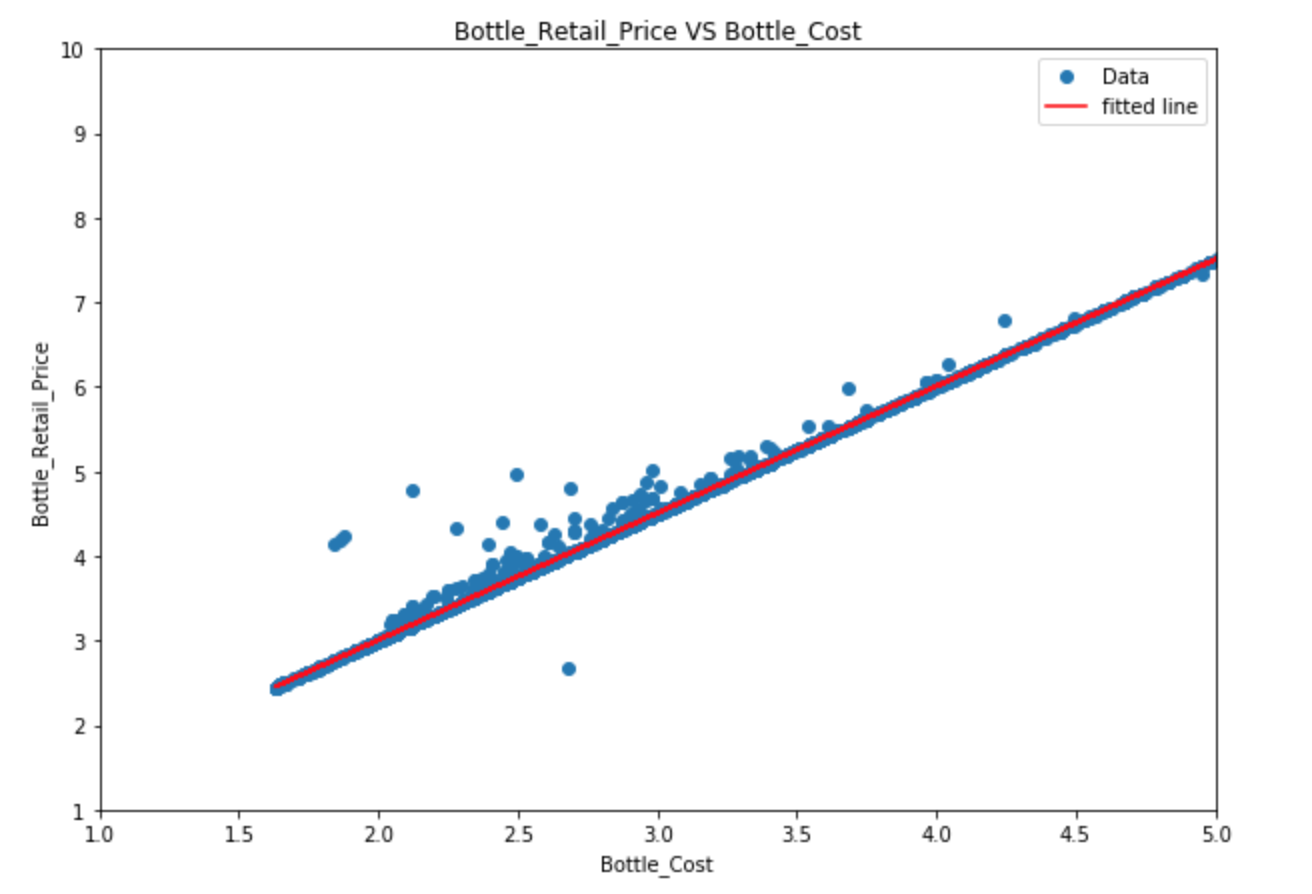
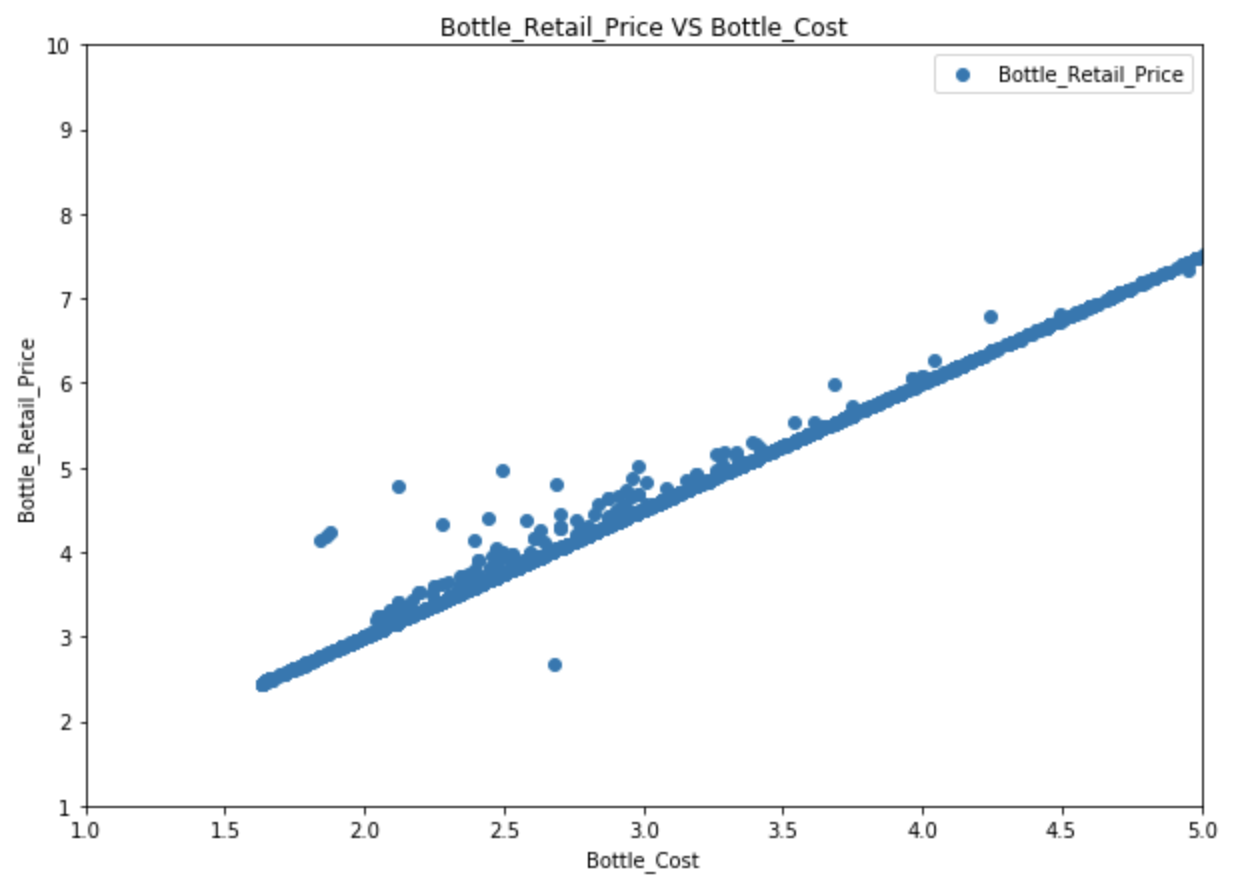
Remove simple linear regression from Statistical Analysis and Visualization.

diff --git a/_site/05-stat_vis/index.html b/_site/05-stat_vis/index.html
@@ -3,7 +3,7 @@
   <head>
     <meta charset="utf-8">
     <meta http-equiv="X-UA-Compatible" content="IE=edge">
-    <meta http-equiv="last-modified" content="2019-04-28 11:11:53 -0500">
+    <meta http-equiv="last-modified" content="2019-05-01 12:48:12 -0500">
     <meta name="viewport" content="width=device-width, initial-scale=1">
     <!-- meta "search-domain" used for google site search function google_search() -->
     <meta name="search-domain" value="">
@@ -201,29 +201,15 @@
 <h2 id="statistical-analysis-with-scipy">Statistical Analysis with Scipy</h2>
 <p>Similar as the Dada Analytics Tools in Excel, python can perform many statistic analysis as well. <a href="https://www.scipy.org/"><code class="highlighter-rouge">scipy</code></a> module has many useful statistic tools. (more than Excel).</p>
 
-<h3 id="simple-linear-regression">Simple Linear Regression</h3>
-<p>Let’s start with linear regression. <a href="https://docs.scipy.org/doc/scipy/reference/generated/scipy.stats.linregress.html">scipy.stats.linregress</a> is a very handy tool for linear regression. <br />
-Let’s try to perform a linear regression on the “Bottle_Retail_Price” and the “Bottle_Cost”.</p>
-
-<div class="language-python highlighter-rouge"><div class="highlight"><pre class="highlight"><code><span class="kn">from</span> <span class="nn">scipy</span> <span class="kn">import</span> <span class="n">stats</span>
-<span class="c1"># Get the two columns, note that you cannot have any NULL value in the input  
-</span><span class="n">c_p</span> <span class="o">=</span> <span class="n">soda</span><span class="p">[[</span><span class="s">"Bottle_Cost"</span><span class="p">,</span> <span class="s">"Bottle_Retail_Price"</span><span class="p">]]</span><span class="o">.</span><span class="n">dropna</span><span class="p">()</span>
-
-<span class="c1"># set dependent and independent variables  
-</span><span class="n">x</span> <span class="o">=</span> <span class="n">c_p</span><span class="p">[</span><span class="s">"Bottle_Cost"</span><span class="p">]</span>
-<span class="n">y</span> <span class="o">=</span> <span class="n">c_p</span><span class="p">[</span><span class="s">"Bottle_Retail_Price"</span><span class="p">]</span>
-
-<span class="c1"># perform linear regression
-</span><span class="n">slope</span><span class="p">,</span> <span class="n">intercept</span><span class="p">,</span> <span class="n">r_value</span><span class="p">,</span> <span class="n">p_value</span><span class="p">,</span> <span class="n">std_err</span> <span class="o">=</span> <span class="n">stats</span><span class="o">.</span><span class="n">linregress</span><span class="p">(</span><span class="n">x</span><span class="p">,</span> <span class="n">y</span><span class="p">)</span>
-</code></pre></div></div>
-<p>That’s it, you get the slope and intercept of your regression model. You can check the reliability of your regression model with r_value, p_value and std_err.</p>
-
 <h3 id="t-test">t-test</h3>
-<p>Let’s try a different kind of statistical analysis. Assume you are interested in selling either energy drink or cola, and you want to know if the two categories has significant difference in average bottle sales.
-We can perform a <a href="https://docs.scipy.org/doc/scipy/reference/generated/scipy.stats.ttest_ind.html">t-test</a> assuming different variance.
-Firstly we need to use aggregate function to find the total bottle sold for each soda in each category. Remember the groupby function? Try to do it by yourself.</p>
+<p>Assume you are interested in selling either energy drink or cola, and you want to know if the two categories has significant difference in average bottle sales.
+We can perform a <a href="https://docs.scipy.org/doc/scipy/reference/generated/scipy.stats.ttest_ind.html">t-test</a> assuming different variance.<br />
+Firstly we need to import the stats module.</p>
+<div class="language-python highlighter-rouge"><div class="highlight"><pre class="highlight"><code><span class="kn">from</span> <span class="nn">scipy</span> <span class="kn">import</span> <span class="n">stats</span>
+</code></pre></div></div>
+<p>Then we need to use aggregate function to find the total bottle sold for each soda in each category. Remember the groupby function? Try to do it by yourself.</p>
 
-<div class="language-python highlighter-rouge"><div class="highlight"><pre class="highlight"><code><span class="n">ct</span> <span class="o">=</span> <span class="n">inv_soda</span><span class="o">.</span><span class="n">groupby</span><span class="p">([</span><span class="s">'Item_Description'</span><span class="p">,</span><span class="s">'Category'</span><span class="p">])[</span><span class="s">"Bottles_Sold"</span><span class="p">]</span><span class="o">.</span><span class="n">agg</span><span class="p">([</span><span class="s">"sum"</span><span class="p">])</span><span class="o">.</span><span class="n">reset_index</span><span class="p">()</span>
+<div class="language-python highlighter-rouge"><div class="highlight"><pre class="highlight"><code><span class="n">ct</span> <span class="o">=</span> <span class="n">inv_soda</span><span class="o">.</span><span class="n">groupby</span><span class="p">([</span><span class="s">'Item_Description'</span><span class="p">,</span><span class="s">'Category'</span><span class="p">],</span> <span class="n">as_index</span><span class="o">=</span><span class="bp">False</span><span class="p">)</span><span class="o">.</span><span class="n">agg</span><span class="p">({</span><span class="s">"Bottles_Sold"</span><span class="p">:</span><span class="s">"sum"</span><span class="p">})</span>
 </code></pre></div></div>
 
 <p>Then, you get the total bottles sold for the two categories.</p>
@@ -231,7 +217,7 @@ Firstly we need to use aggregate function to find the total bottle sold for each
 ct_cola = ct[ct["Category"] == "Cola"]
 </code></pre></div></div>
 <p>Finally, you perform the t-test.</p>
-<div class="highlighter-rouge"><div class="highlight"><pre class="highlight"><code>stats.ttest_ind(ct_eng['sum'],ct_cola['sum'], equal_var=False)
+<div class="highlighter-rouge"><div class="highlight"><pre class="highlight"><code>stats.ttest_ind(ct_eng['Bottles_Sold'],ct_cola['Bottles_Sold'], equal_var=False)
 </code></pre></div></div>
 <p>Then you get</p>
 <div class="output highlighter-rouge"><div class="highlight"><pre class="highlight"><code>Ttest_indResult(statistic=1.9035249229837687, pvalue=0.057480903679786859)
@@ -252,7 +238,7 @@ ct_cola = ct[ct["Category"] == "Cola"]
 
 <div class="language-python highlighter-rouge"><div class="highlight"><pre class="highlight"><code><span class="o">%</span><span class="n">matplotlib</span> <span class="n">inline</span>
 <span class="c1"># In majority of cases, you will just use pyplot. So you can just import that.   
-</span><span class="kn">import</span> <span class="nn">matplolib.pyplot</span> <span class="k">as</span> <span class="n">plt</span>
+</span><span class="kn">import</span> <span class="nn">matplotlib.pyplot</span> <span class="k">as</span> <span class="n">plt</span>
 </code></pre></div></div>
 <p>Similar as Excel, you just need to feed in the values in x-axis and y-axis. Let’s start with a very basic example:</p>
 <div class="language-python highlighter-rouge"><div class="highlight"><pre class="highlight"><code><span class="c1"># create three points for the first line
@@ -304,18 +290,14 @@ Assume you want to see the price distribution of the soda that cost less than $5
 <p>This is a very basic example. You can customize a lot more parameters such as colors, bins, etc.</p>
 
 <h3 id="scatter-plot">Scatter plot</h3>
-<p>We have previously ran an regression on our data. Let’s plot it! (Assume we are interested in the soda that cost less than $5) <br />
-If you restarted your kernel and don’t have slope, intercept variable, run the regression again<br />
-<img src="../pic/kernel.jpg" alt="ker" /></p>
+
+<p>A scatter plot is a two-dimensional data visualization that uses dots to represent the values obtained for two different variables.</p>
 
 <div class="language-python highlighter-rouge"><div class="highlight"><pre class="highlight"><code><span class="c1"># set figure size  
-</span><span class="n">plt</span><span class="o">.</span><span class="n">figure</span><span class="p">(</span><span class="n">figsize</span><span class="o">=</span><span class="p">(</span><span class="mi">10</span><span class="p">,</span><span class="mi">7</span><span class="p">))</span>
-<span class="c1"># Plot the scatter, 'o' means to use circle marker  
-</span><span class="n">plt</span><span class="o">.</span><span class="n">plot</span><span class="p">(</span><span class="n">x</span><span class="p">,</span> <span class="n">y</span><span class="p">,</span> <span class="s">'o'</span><span class="p">,</span> <span class="n">label</span><span class="o">=</span><span class="s">'Data'</span><span class="p">)</span>
-<span class="c1"># Plot the line  
-</span><span class="n">plt</span><span class="o">.</span><span class="n">plot</span><span class="p">(</span><span class="n">x</span><span class="p">,</span> <span class="n">intercept</span> <span class="o">+</span> <span class="n">slope</span><span class="o">*</span><span class="n">x</span><span class="p">,</span> <span class="s">'r'</span><span class="p">,</span> <span class="n">label</span><span class="o">=</span><span class="s">'fitted line'</span><span class="p">)</span>
-<span class="c1"># Set x, y label  
-</span><span class="n">plt</span><span class="o">.</span><span class="n">xlabel</span><span class="p">(</span><span class="s">"Bottle_Cost"</span><span class="p">)</span>
+</span><span class="n">fig</span><span class="p">,</span> <span class="n">ax</span> <span class="o">=</span> <span class="n">plt</span><span class="o">.</span><span class="n">subplots</span><span class="p">(</span><span class="n">figsize</span><span class="o">=</span><span class="p">(</span><span class="mi">10</span><span class="p">,</span><span class="mi">7</span><span class="p">))</span>
+<span class="c1"># Plot data
+</span><span class="n">ax</span><span class="o">.</span><span class="n">scatter</span><span class="p">(</span><span class="n">soda</span><span class="p">[</span><span class="s">'Bottle_Cost'</span><span class="p">],</span> <span class="n">soda</span><span class="p">[</span><span class="s">'Bottle_Retail_Price'</span><span class="p">])</span>
+<span class="n">plt</span><span class="o">.</span><span class="n">xlabel</span><span class="p">(</span><span class="s">"Bottle_Cost"</span><span class="p">)</span>
 <span class="n">plt</span><span class="o">.</span><span class="n">ylabel</span><span class="p">(</span><span class="s">"Bottle_Retail_Price"</span><span class="p">)</span>
 <span class="c1"># Set title  
 </span><span class="n">plt</span><span class="o">.</span><span class="n">title</span><span class="p">(</span><span class="s">"Bottle_Retail_Price VS Bottle_Cost"</span><span class="p">)</span>
@@ -351,8 +333,8 @@ Hint: 1. Calculate total cost for each soda (arithmetic)</p>
     <h2 id="solution">Solution</h2>
 
     <div class="highlighter-rouge"><div class="highlight"><pre class="highlight"><code>inv_soda["Total_Cost"] = inv_soda["Bottle_Cost"] * inv_soda["Bottles_Sold"]  
-temp = inv_soda.groupby(['Category'])["Total_Cost"].agg(["sum"]).reset_index()
-temp = temp.sort_values("sum", ascending = False)
+ct = inv_soda.groupby(['Category'])["Total_Cost"].agg(["sum"]).reset_index()
+ct = temp.sort_values("sum", ascending = False)
 plt.figure(figsize=(15,15))
 plt.pie(ct["sum"], labels=ct["Category"], autopct='%.0f%%')
 plt.show()
@@ -366,19 +348,10 @@ plt.show()
   <h2>Key Points</h2>
   <ul>
     
-    <li><p>Use <code class="highlighter-rouge">scipy.stats.linregress</code> for linear regression</p>
-</li>
-    
     <li><p>Use <code class="highlighter-rouge">scipy.stats.ttest_ind</code> for t-test</p>
 </li>
     
     <li><p>There are many other statistical tools in scipy, you can read the documentation for more details</p>
-</li>
-    
-    <li><p>Use <code class="highlighter-rouge">pyplot.plot</code> to draw graph</p>
-</li>
-    
-    <li><p>Use <code class="highlighter-rouge">pyplot.hist</code> to draw histogram</p>
 </li>
     
     <li><p>You can customize many parameters in your graph, you can read the documentation for more details</p>

diff --git a/_site/04-pandas/index.html b/_site/04-pandas/index.html
@@ -3,7 +3,7 @@
   <head>
     <meta charset="utf-8">
     <meta http-equiv="X-UA-Compatible" content="IE=edge">
-    <meta http-equiv="last-modified" content="2019-04-28 11:11:53 -0500">
+    <meta http-equiv="last-modified" content="2019-05-01 12:48:12 -0500">
     <meta name="viewport" content="width=device-width, initial-scale=1">
     <!-- meta "search-domain" used for google site search function google_search() -->
     <meta name="search-domain" value="">
@@ -720,32 +720,45 @@ Note that Pandas has pivot table too, we will cover later.</p>
 
 <div class="language-python highlighter-rouge"><div class="highlight"><pre class="highlight"><code><span class="c1"># Group data by Item_Description
 # The code below counts the number of invoice_id associated with each Item_Description. You can have other
-</span><span class="n">grouped_df</span> <span class="o">=</span> <span class="n">inv_soda</span><span class="o">.</span><span class="n">groupby</span><span class="p">(</span><span class="s">'Item_Description'</span><span class="p">)[</span><span class="s">"Invoice_id"</span><span class="p">]</span><span class="o">.</span><span class="n">agg</span><span class="p">([</span><span class="s">"count"</span><span class="p">])</span>
+</span><span class="n">grouped_df</span> <span class="o">=</span> <span class="n">inv_soda</span><span class="o">.</span><span class="n">groupby</span><span class="p">(</span><span class="s">'Item_Description'</span><span class="p">)</span><span class="o">.</span><span class="n">agg</span><span class="p">({</span><span class="s">"Invoice_id"</span><span class="p">:</span><span class="s">"count"</span><span class="p">})</span>
 <span class="n">grouped_df</span>
 </code></pre></div></div>
 <p>You will get something like this:</p>
-<div class="highlighter-rouge"><div class="highlight"><pre class="highlight"><code>                      count
+<div class="highlighter-rouge"><div class="highlight"><pre class="highlight"><code>                      Invoice_id
 Item_Description  
 Ace's Energy          262
 Ace's Energy Booster  64
 Akame's Energy        80
 ...
 </code></pre></div></div>
-<p>Note that “Item_Description” and “count” are not at the same level. This is because the groupby function automatically made “Item_Description” the index. If we do <code class="highlighter-rouge">grouped_df.columns</code>, we will only see the <code class="highlighter-rouge">count</code> column. To avoid problems when using the aggregated result, we might want to:</p>
-<div class="language-python highlighter-rouge"><div class="highlight"><pre class="highlight"><code><span class="n">grouped_df</span> <span class="o">=</span> <span class="n">inv_soda</span><span class="o">.</span><span class="n">groupby</span><span class="p">(</span><span class="s">'Item_Description'</span><span class="p">)[</span><span class="s">"Invoice_id"</span><span class="p">]</span><span class="o">.</span><span class="n">agg</span><span class="p">([</span><span class="s">"count"</span><span class="p">])</span><span class="o">.</span><span class="n">reset_index</span><span class="p">()</span>  
+<p>Note that “Item_Description” and “Invoice_id” are not at the same level. This is because the groupby function automatically made “Item_Description” the index. If we do <code class="highlighter-rouge">grouped_df.columns</code>, we will only see the <code class="highlighter-rouge">Invoice_id</code> column. To avoid problems when using the aggregated result, we might want to:</p>
+<div class="language-python highlighter-rouge"><div class="highlight"><pre class="highlight"><code><span class="n">grouped_df</span> <span class="o">=</span> <span class="n">inv_soda</span><span class="o">.</span><span class="n">groupby</span><span class="p">(</span><span class="s">'Item_Description'</span><span class="p">,</span> <span class="n">as_index</span><span class="o">=</span><span class="bp">False</span><span class="p">)</span><span class="o">.</span><span class="n">agg</span><span class="p">({</span><span class="s">"Invoice_id"</span><span class="p">:</span><span class="s">"count"</span><span class="p">})</span>  
 <span class="n">grouped_df</span>  
 </code></pre></div></div>
 <p>The columns are at the same level now.</p>
-<div class="highlighter-rouge"><div class="highlight"><pre class="highlight"><code>  Item_Description        count
+<div class="highlighter-rouge"><div class="highlight"><pre class="highlight"><code>  Item_Description        Invoice_id
 0 Ace's Energy            262
 1 Ace's Energy Booster    64
 2 Akame's Energy          80
 ...
 </code></pre></div></div>
-<p>Now if you do <code class="highlighter-rouge">grouped_df.columns</code>, both “Item_Description” and “count” will show up.
-Note that the input in <code class="highlighter-rouge">.agg()</code> is a list. Because we can generate multiple aggregate columns at the same time. For example:</p>
+<p>Now if you do <code class="highlighter-rouge">grouped_df.columns</code>, both “Item_Description” and “Invoice_id” will show up.</p>
 
-<div class="language-python highlighter-rouge"><div class="highlight"><pre class="highlight"><code><span class="n">inv_soda</span><span class="o">.</span><span class="n">groupby</span><span class="p">(</span><span class="s">'Item_Description'</span><span class="p">)[</span><span class="s">"Bottle_Cost"</span><span class="p">]</span><span class="o">.</span><span class="n">agg</span><span class="p">([</span><span class="s">"count"</span><span class="p">,</span> <span class="s">"sum"</span><span class="p">])</span><span class="o">.</span><span class="n">reset_index</span><span class="p">()</span>
+<p>The column of count has the name of the counted column, or Invoice_id. You may change it to a more descriptive name with <code class="highlighter-rouge">rename()</code> function.</p>
+
+<div class="language-python highlighter-rouge"><div class="highlight"><pre class="highlight"><code><span class="n">inv_soda</span><span class="o">.</span><span class="n">groupby</span><span class="p">(</span><span class="s">'Item_Description'</span><span class="p">,</span> <span class="n">as_index</span><span class="o">=</span><span class="bp">False</span><span class="p">)</span><span class="o">.</span><span class="n">agg</span><span class="p">({</span><span class="s">'Invoice_id'</span><span class="p">:</span><span class="s">'count'</span><span class="p">})</span><span class="o">.</span><span class="n">rename</span><span class="p">(</span><span class="n">columns</span><span class="o">=</span><span class="p">{</span><span class="s">'Invoice_id'</span><span class="p">:</span><span class="s">'Count'</span><span class="p">})</span>
+</code></pre></div></div>
+<p>The output now is:</p>
+<div class="highlighter-rouge"><div class="highlight"><pre class="highlight"><code>  Item_Description        Count
+0 Ace's Energy            262
+1 Ace's Energy Booster    64
+2 Akame's Energy          80
+...
+</code></pre></div></div>
+
+<p>Note that the input in <code class="highlighter-rouge">.agg()</code> is a dictionary. Because we can generate multiple aggregate columns at the same time. For example:</p>
+
+<div class="language-python highlighter-rouge"><div class="highlight"><pre class="highlight"><code><span class="n">inv_soda</span><span class="o">.</span><span class="n">groupby</span><span class="p">(</span><span class="s">'Item_Description'</span><span class="p">,</span> <span class="n">as_index</span><span class="o">=</span><span class="bp">False</span><span class="p">)</span><span class="o">.</span><span class="n">agg</span><span class="p">({</span><span class="s">"Invoice_id"</span><span class="p">:</span><span class="s">"count"</span><span class="p">,</span> <span class="s">"Bottle_Cost"</span><span class="p">:</span><span class="s">"mean"</span><span class="p">})</span>
 <span class="c1"># think about this, what does it return?   
 </span></code></pre></div></div>
 
@@ -757,7 +770,7 @@ Note that the input in <code class="highlighter-rouge">.agg()</code> is a list. 
   <blockquote class="solution">
     <h2 id="solution-4">Solution</h2>
 
-    <div class="highlighter-rouge"><div class="highlight"><pre class="highlight"><code>inv_soda.groupby('Category')["Bottle_Cost","Bottle_Retail_Price"].agg(["mean"]).reset_index()
+    <div class="highlighter-rouge"><div class="highlight"><pre class="highlight"><code>inv_soda.groupby('Category', as_index=False).agg({"Bottle_Cost":"mean","Bottle_Retail_Price":"mean"})
 
 </code></pre></div>    </div>
   </blockquote>
@@ -822,7 +835,7 @@ Note that the input in <code class="highlighter-rouge">.agg()</code> is a list. 
     <li><p>use df1.merge(df2) to merge two DataFrames.</p>
 </li>
     
-    <li><p>use df_object.groupby(column_list1)[column_list2].agg(list_of_aggregate_function) to apply aggregation on data group by column_list1.</p>
+    <li><p>use df_object.groupby(column_list1).agg({column1:agg_function1, column2:agg_function2…}) to apply aggregation on data group.</p>
 </li>
     
     <li><p>Create pivot table with pandas.pivot_table</p>

diff --git a/_site/reference/index.html b/_site/reference/index.html
@@ -3,7 +3,7 @@
   <head>
     <meta charset="utf-8">
     <meta http-equiv="X-UA-Compatible" content="IE=edge">
-    <meta http-equiv="last-modified" content="2019-04-28 11:11:53 -0500">
+    <meta http-equiv="last-modified" content="2019-05-01 12:48:12 -0500">
     <meta name="viewport" content="width=device-width, initial-scale=1">
     <!-- meta "search-domain" used for google site search function google_search() -->
     <meta name="search-domain" value="">
@@ -287,7 +287,7 @@
         <li><p>use df1.merge(df2) to merge two DataFrames.</p>
 </li>
         
-        <li><p>use df_object.groupby(column_list1)[column_list2].agg(list_of_aggregate_function) to apply aggregation on data group by column_list1.</p>
+        <li><p>use df_object.groupby(column_list1).agg({column1:agg_function1, column2:agg_function2…}) to apply aggregation on data group.</p>
 </li>
         
         <li><p>Create pivot table with pandas.pivot_table</p>
@@ -306,19 +306,10 @@
       <td class="col-md-9">
         <ul>
         
-        <li><p>Use <code class="highlighter-rouge">scipy.stats.linregress</code> for linear regression</p>
-</li>
-        
         <li><p>Use <code class="highlighter-rouge">scipy.stats.ttest_ind</code> for t-test</p>
 </li>
         
         <li><p>There are many other statistical tools in scipy, you can read the documentation for more details</p>
-</li>
-        
-        <li><p>Use <code class="highlighter-rouge">pyplot.plot</code> to draw graph</p>
-</li>
-        
-        <li><p>Use <code class="highlighter-rouge">pyplot.hist</code> to draw histogram</p>
 </li>
         
         <li><p>You can customize many parameters in your graph, you can read the documentation for more details</p>

diff --git a/_site/00-intro_notebook/index.html b/_site/00-intro_notebook/index.html
@@ -3,7 +3,7 @@
   <head>
     <meta charset="utf-8">
     <meta http-equiv="X-UA-Compatible" content="IE=edge">
-    <meta http-equiv="last-modified" content="2019-04-28 11:11:53 -0500">
+    <meta http-equiv="last-modified" content="2019-05-01 12:48:12 -0500">
     <meta name="viewport" content="width=device-width, initial-scale=1">
     <!-- meta "search-domain" used for google site search function google_search() -->
     <meta name="search-domain" value="">

diff --git a/_site/01-intro/index.html b/_site/01-intro/index.html
@@ -3,7 +3,7 @@
   <head>
     <meta charset="utf-8">
     <meta http-equiv="X-UA-Compatible" content="IE=edge">
-    <meta http-equiv="last-modified" content="2019-04-28 11:11:53 -0500">
+    <meta http-equiv="last-modified" content="2019-05-01 12:48:12 -0500">
     <meta name="viewport" content="width=device-width, initial-scale=1">
     <!-- meta "search-domain" used for google site search function google_search() -->
     <meta name="search-domain" value="">

diff --git a/_site/02-conditional_loop/index.html b/_site/02-conditional_loop/index.html
@@ -3,7 +3,7 @@
   <head>
     <meta charset="utf-8">
     <meta http-equiv="X-UA-Compatible" content="IE=edge">
-    <meta http-equiv="last-modified" content="2019-04-28 11:11:53 -0500">
+    <meta http-equiv="last-modified" content="2019-05-01 12:48:12 -0500">
     <meta name="viewport" content="width=device-width, initial-scale=1">
     <!-- meta "search-domain" used for google site search function google_search() -->
     <meta name="search-domain" value="">

diff --git a/_site/03-func/index.html b/_site/03-func/index.html
@@ -3,7 +3,7 @@
   <head>
     <meta charset="utf-8">
     <meta http-equiv="X-UA-Compatible" content="IE=edge">
-    <meta http-equiv="last-modified" content="2019-04-28 11:11:53 -0500">
+    <meta http-equiv="last-modified" content="2019-05-01 12:48:12 -0500">
     <meta name="viewport" content="width=device-width, initial-scale=1">
     <!-- meta "search-domain" used for google site search function google_search() -->
     <meta name="search-domain" value="">

diff --git a/_site/06-errors/index.html b/_site/06-errors/index.html
@@ -3,7 +3,7 @@
   <head>
     <meta charset="utf-8">
     <meta http-equiv="X-UA-Compatible" content="IE=edge">
-    <meta http-equiv="last-modified" content="2019-04-28 11:11:53 -0500">
+    <meta http-equiv="last-modified" content="2019-05-01 12:48:12 -0500">
     <meta name="viewport" content="width=device-width, initial-scale=1">
     <!-- meta "search-domain" used for google site search function google_search() -->
     <meta name="search-domain" value="">

diff --git a/_site/07-debugging/index.html b/_site/07-debugging/index.html
@@ -3,7 +3,7 @@
   <head>
     <meta charset="utf-8">
     <meta http-equiv="X-UA-Compatible" content="IE=edge">
-    <meta http-equiv="last-modified" content="2019-04-28 11:11:53 -0500">
+    <meta http-equiv="last-modified" content="2019-05-01 12:48:12 -0500">
     <meta name="viewport" content="width=device-width, initial-scale=1">
     <!-- meta "search-domain" used for google site search function google_search() -->
     <meta name="search-domain" value="">

diff --git a/_site/08-crisp/index.html b/_site/08-crisp/index.html
@@ -3,7 +3,7 @@
   <head>
     <meta charset="utf-8">
     <meta http-equiv="X-UA-Compatible" content="IE=edge">
-    <meta http-equiv="last-modified" content="2019-04-28 11:11:53 -0500">
+    <meta http-equiv="last-modified" content="2019-05-01 12:48:12 -0500">
     <meta name="viewport" content="width=device-width, initial-scale=1">
     <!-- meta "search-domain" used for google site search function google_search() -->
     <meta name="search-domain" value="">

diff --git a/_site/09-data_prep/index.html b/_site/09-data_prep/index.html
@@ -3,7 +3,7 @@
   <head>
     <meta charset="utf-8">
     <meta http-equiv="X-UA-Compatible" content="IE=edge">
-    <meta http-equiv="last-modified" content="2019-04-28 11:11:53 -0500">
+    <meta http-equiv="last-modified" content="2019-05-01 12:48:12 -0500">
     <meta name="viewport" content="width=device-width, initial-scale=1">
     <!-- meta "search-domain" used for google site search function google_search() -->
     <meta name="search-domain" value="">

diff --git a/_site/10-linear_regression/index.html b/_site/10-linear_regression/index.html
@@ -3,7 +3,7 @@
   <head>
     <meta charset="utf-8">
     <meta http-equiv="X-UA-Compatible" content="IE=edge">
-    <meta http-equiv="last-modified" content="2019-04-28 11:11:53 -0500">
+    <meta http-equiv="last-modified" content="2019-05-01 12:48:12 -0500">
     <meta name="viewport" content="width=device-width, initial-scale=1">
     <!-- meta "search-domain" used for google site search function google_search() -->
     <meta name="search-domain" value="">
